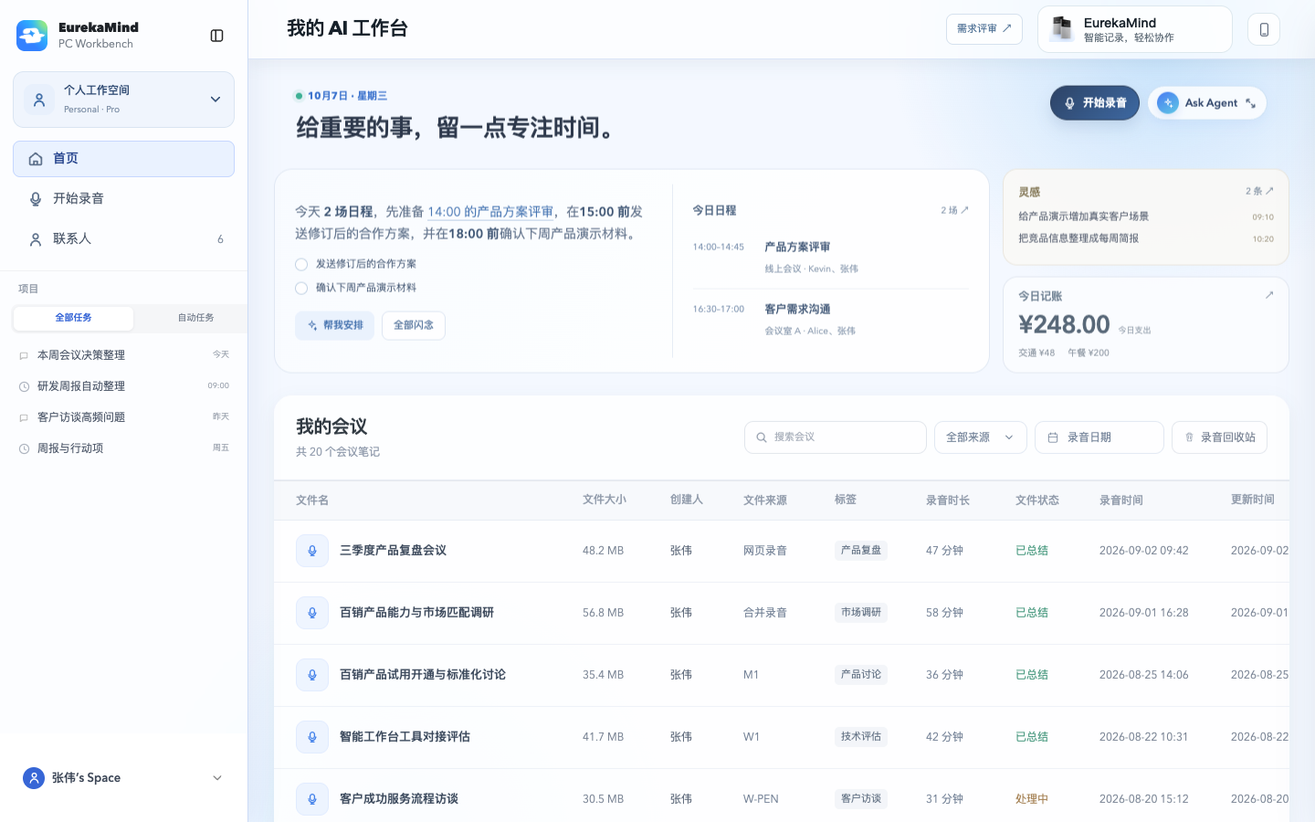
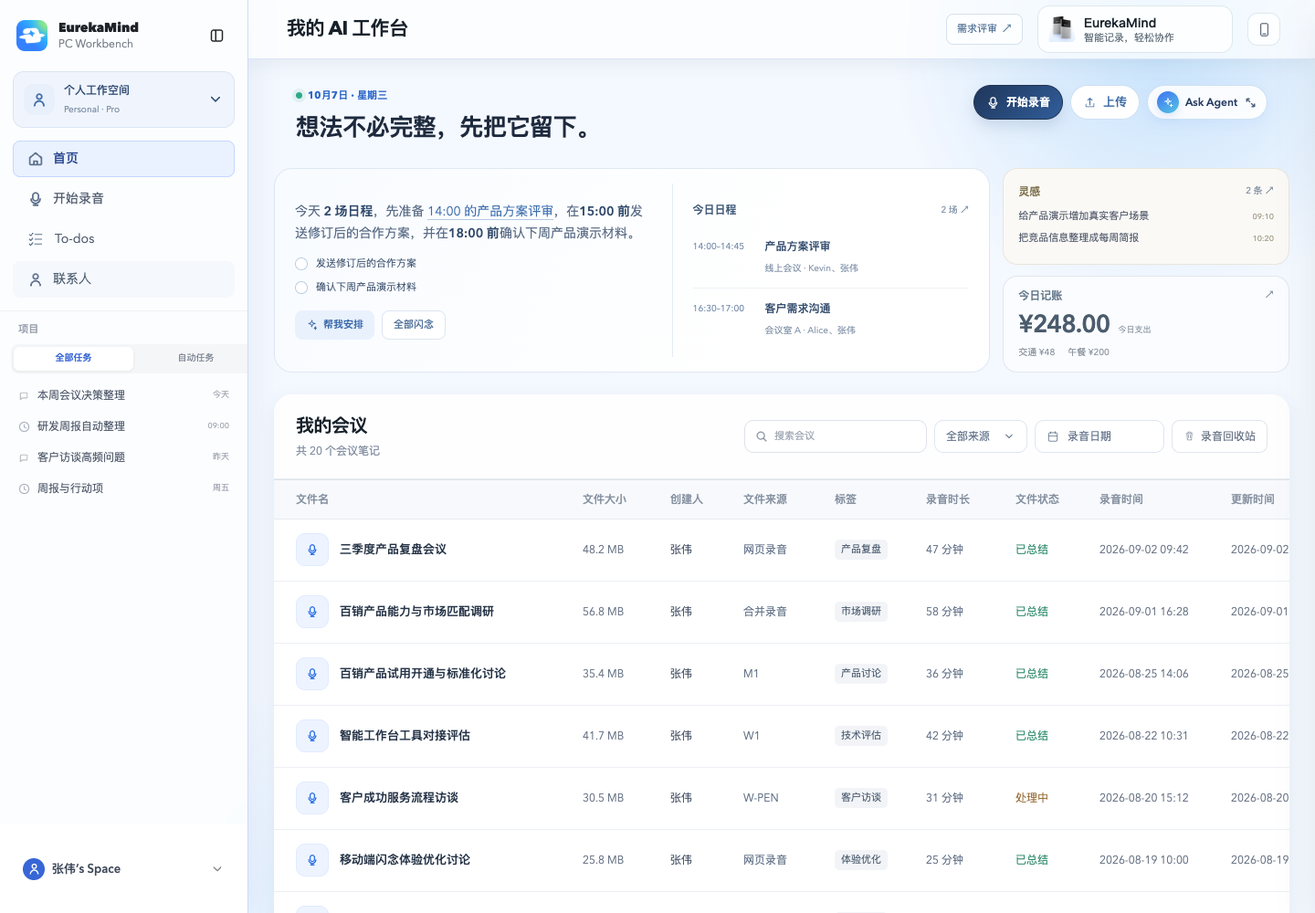
feat: add audio upload to personal and team home pages

diff --git a/src/prototype/one-to-one-reference/assets/workspace-ui.js b/src/prototype/one-to-one-reference/assets/workspace-ui.js
@@ -80,7 +80,7 @@
   function meetingTable(){
     const list=recordingList(),pages=Math.max(1,Math.ceil(list.length/10));listPage=Math.min(listPage,pages);
     const columns=filter==='trash'?['文件名','文件大小','文件来源','录音时间','删除时间','操作']:['文件名','文件大小','创建人','文件来源','标签','录音时长','文件状态','录音时间','更新时间','操作'];
-    return `<div class="ws-table-scroll ws-recording-scroll" role="region" aria-label="团队会议录音列表" tabindex="0"><table class="ws-table ws-recording-table"><thead><tr>${columns.map(t=>`<th>${['录音时间','更新时间'].includes(t)?btn('sort',t+(sortKey===(t==='录音时间'?'created':'updated')?(sortAsc?' ↑':' ↓'):''),'link',t==='录音时间'?'created':'updated'):t}</th>`).join('')}</tr></thead><tbody>${list.slice((listPage-1)*10,listPage*10).map(f=>`<tr><td>${filter==='trash'?esc(f.title):`<button class="ws-file-link" data-ws-action="file" data-value="${esc(f.id)}">${icon('mic')}<strong>${esc(f.title)}</strong></button>`}</td><td>${esc(f.size||'—')}</td>${filter==='trash'?`<td>${esc(f.source)}</td><td>${date(f.created)}</td><td>${date(f.deletedAt)}</td><td><div class="ws-actions">${btn('restore','恢复','link',f.id)}${btn('purge','永久删除','link danger',f.id)}</div></td>`:`<td>${esc(f.creator||userName(f.owner))}</td><td>${esc(f.source)}</td><td>${(f.tags||[]).map(t=>badge(t)).join(' ')}</td><td>${f.duration} 分钟</td><td>${badge(f.status||'已总结','green')}</td><td>${date(f.created)}</td><td>${date(f.updated||f.created)}</td><td><div class="ws-actions">${f.owner===actor?btn('delete','删除','link danger',f.id):badge('只读')}</div></td>`}</tr>`).join('')}</tbody></table></div>${!list.length?empty(filter==='trash'?'回收站暂无内容':'没有符合条件的会议','调整筛选，或开始一场新的录音。'):''}<div class="ws-table-foot ws-pagination"><span>共 ${list.length} 个会议笔记 · ${listPage} / ${pages} 页</span><div class="ws-actions">${btn('list-prev','上一页','','',listPage<=1?'disabled':'')}${btn('list-next','下一页','','',listPage>=pages?'disabled':'')}</div></div>`;
+    return `<div class="ws-table-scroll ws-recording-scroll" role="region" aria-label="团队会议录音列表" tabindex="0"><table class="ws-table ws-recording-table"><thead><tr>${columns.map(t=>`<th>${['录音时间','更新时间'].includes(t)?btn('sort',t+(sortKey===(t==='录音时间'?'created':'updated')?(sortAsc?' ↑':' ↓'):''),'link',t==='录音时间'?'created':'updated'):t}</th>`).join('')}</tr></thead><tbody>${list.slice((listPage-1)*10,listPage*10).map(f=>`<tr><td>${filter==='trash'?esc(f.title):`<button class="ws-file-link" data-ws-action="file" data-value="${esc(f.id)}">${icon('mic')}<strong>${esc(f.title)}</strong></button>`}</td><td>${esc(f.size||'—')}</td>${filter==='trash'?`<td>${esc(f.source)}</td><td>${date(f.created)}</td><td>${date(f.deletedAt)}</td><td><div class="ws-actions">${btn('restore','恢复','link',f.id)}${btn('purge','永久删除','link danger',f.id)}</div></td>`:`<td>${esc(f.creator||userName(f.owner))}</td><td>${esc(f.source)}</td><td>${(f.tags||[]).map(t=>badge(t)).join(' ')}</td><td>${f.origin==='upload'&&!f.duration?'待识别':f.duration+' 分钟'}</td><td>${badge(f.status||'已总结',(!f.status||f.status==='已总结')?'green':'amber')}</td><td>${date(f.created)}</td><td>${date(f.updated||f.created)}</td><td><div class="ws-actions">${f.owner===actor?btn('delete','删除','link danger',f.id):badge('只读')}</div></td>`}</tr>`).join('')}</tbody></table></div>${!list.length?empty(filter==='trash'?'回收站暂无内容':'没有符合条件的会议','调整筛选，或开始一场新的录音。'):''}<div class="ws-table-foot ws-pagination"><span>共 ${list.length} 个会议笔记 · ${listPage} / ${pages} 页</span><div class="ws-actions">${btn('list-prev','上一页','','',listPage<=1?'disabled':'')}${btn('list-next','下一页','','',listPage>=pages?'disabled':'')}</div></div>`;
   }
   function teamIntelligence(report){
     const items=report.items;
@@ -88,9 +88,9 @@
   }
   function overview(){
     const report=M.insights(w(),actor),now=new Date(),dayLabel=now.toLocaleDateString('zh-CN',{month:'long',day:'numeric'})+' · '+now.toLocaleDateString('zh-CN',{weekday:'long'});
-    return `<header class="ws-page-head ws-team-home-head"><div><span class="today-workbench-eyebrow ws-home-date"><i></i><time>${esc(dayLabel)}</time></span><h1>让分散的讨论，成为共同的判断。</h1></div><div class="ws-actions">${btn('record',icon('mic')+'开始录音','primary')+btn('agent',`<span class="ws-agent-mark">${icon('spark')}</span>Ask Agent`,'agent')}</div></header>`+
+    return `<header class="ws-page-head ws-team-home-head"><div><span class="today-workbench-eyebrow ws-home-date"><i></i><time>${esc(dayLabel)}</time></span><h1>让分散的讨论，成为共同的判断。</h1></div><div class="ws-actions">${btn('record',icon('mic')+'开始录音','primary')+'<button type="button" class="audio-upload-entry" data-audio-upload>'+icon('upload')+'上传</button>'+btn('agent',`<span class="ws-agent-mark">${icon('spark')}</span>Ask Agent`,'agent')}</div></header>`+
       (filter!=='trash'?teamIntelligence(report):'')+
-      `<section class="ws-surface ws-recordings"><header class="ws-recording-head"><div><h2>${filter==='trash'?'录音回收站':'团队会议'}</h2><p>${filter==='trash'?'删除的录音可恢复，30 天后过期清理':'团队设备录音自动汇入，无需分享'}</p></div><div class="ws-meeting-tools"><label class="ws-search">${icon('search')}<input id="ws-file-search" type="search" placeholder="搜索会议" aria-label="搜索团队会议" value="${esc(query)}"></label><div class="ws-filter-source"><select id="ws-meeting-source" aria-label="会议来源">${['all','网页录音','合并录音','M1','W1','W2','W-PEN','手动导入',...new Set(w().files.map(f=>f.source))].filter((x,i,a)=>a.indexOf(x)===i).map(v=>`<option value="${esc(v)}" ${sourceFilter===v?'selected':''}>${v==='all'?'全部来源':esc(v)}</option>`).join('')}</select></div><div class="ws-filter-date"><input id="ws-meeting-date" type="date" value="${dateFilter}" aria-label="录音日期"></div><select id="ws-meeting-status" aria-label="会议状态">${['all','已总结','处理中','待处理'].map(v=>`<option ${statusFilter===v?'selected':''} value="${v}">${v==='all'?'全部状态':v}</option>`).join('')}</select>${btn('recycle',filter==='trash'?'返回会议':icon('trash')+'录音回收站')}${filter!=='trash'?btn('import',icon('upload')+'导入录音纪要'):''}</div></header>${meetingTable()}</section>`;
+      `<section class="ws-surface ws-recordings"><header class="ws-recording-head"><div><h2>${filter==='trash'?'录音回收站':'团队会议'}</h2><p>${filter==='trash'?'删除的录音可恢复，30 天后过期清理':'团队设备录音自动汇入，无需分享'}</p></div><div class="ws-meeting-tools"><label class="ws-search">${icon('search')}<input id="ws-file-search" type="search" placeholder="搜索会议" aria-label="搜索团队会议" value="${esc(query)}"></label><div class="ws-filter-source"><select id="ws-meeting-source" aria-label="会议来源">${['all','网页录音','合并录音','M1','W1','W2','W-PEN','文件上传','手动导入',...new Set(w().files.map(f=>f.source))].filter((x,i,a)=>a.indexOf(x)===i).map(v=>`<option value="${esc(v)}" ${sourceFilter===v?'selected':''}>${v==='all'?'全部来源':esc(v)}</option>`).join('')}</select></div><div class="ws-filter-date"><input id="ws-meeting-date" type="date" value="${dateFilter}" aria-label="录音日期"></div><select id="ws-meeting-status" aria-label="会议状态">${['all','已总结','处理中','待处理'].map(v=>`<option ${statusFilter===v?'selected':''} value="${v}">${v==='all'?'全部状态':v}</option>`).join('')}</select>${btn('recycle',filter==='trash'?'返回会议':icon('trash')+'录音回收站')}</div></header>${meetingTable()}</section>`;
   }
   function openMeeting(fid) {
     if(dialog.open)dialog.close();
@@ -291,6 +291,13 @@
   },true);
   dialog.addEventListener('close',()=>dialog.classList.remove('ws-dialog-wide'));
   window.addEventListener('resize',()=>{fit();closeMenu();});new ResizeObserver(fit).observe($('.topbar'));
-  window.EurekaSpaces={id:()=>data.activeId,open:show,switch:switchSpace};
+  window.EurekaSpaces={id:()=>data.activeId,open:show,switch:switchSpace,
+    uploadContext(){M.writable(w());if(!M.member(w(),actor))throw Error('当前成员无法上传');return {id:w().id,type:w().type,name:w().name,actor};},
+    uploadAudio(meta,context){
+      if(context.id!==w().id||context.actor!==actor)throw Error('工作空间已改变，请重新打开上传');
+      const f=mutate(()=>{const f=M.addFile(w(),{title:meta.title,source:'文件上传',summary:meta.note,transcript:meta.note},actor);Object.assign(f,{origin:'upload',fileName:meta.name,size:meta.size,status:'待处理',visibility:'team',recordedWorkspaceId:w().id});if(w().audit[0])w().audit[0].action='上传团队录音：'+f.title;return f;});
+      filter='all';query='';sourceFilter='all';dateFilter='';statusFilter='all';listPage=1;show('overview');return f;
+    }
+  };
   if(!data.spaces.some(s=>s.id===data.activeId&&M.member(s)))data.activeId='personal';chrome();if(w().type==='team')show('overview');
 })();

diff --git a/src/prototype/one-to-one-reference/assets/recording-upload.js b/src/prototype/one-to-one-reference/assets/recording-upload.js
@@ -1,0 +1,66 @@
+/* Shared audio upload interaction. Only demo metadata is persisted; audio never leaves the browser. */
+(() => {
+  'use strict';
+  const $=s=>document.querySelector(s), KEY='eureka:audio-uploads:v1';
+  const formats=['m4a','mp3','wav','opus','flac','aac'];
+  const note='音频已加入会议列表，等待转写处理。本地演示仅保存文件信息，未上传原音频，也未生成真实转写或总结。';
+  const esc=v=>String(v).replace(/[&<>"']/g,c=>({'&':'&amp;','<':'&lt;','>':'&gt;','"':'&quot;',"'":'&#39;'}[c]));
+  let uploads=[],selected=null,context=null,trigger=null,busy=false,loadError=false;
+  try{const value=JSON.parse(localStorage.getItem(KEY)||'[]');if(!Array.isArray(value)||value.some(f=>!f||typeof f.id!=='string'||!f.id.startsWith('upload-')||!['title','name','size','created'].every(k=>typeof f[k]==='string')||!Number.isFinite(Date.parse(f.created))))throw Error();uploads=value;}catch{loadError=true;}
+  const time=iso=>new Date(iso).toLocaleString('sv-SE').slice(0,16);
+  const size=n=>n<1024?n+' B':n<1024*1024?(n/1024).toFixed(1)+' KB':(n/1024/1024).toFixed(1)+' MB';
+  function persist(next){if(loadError)throw Error('上传记录无法读取，请先保留浏览器数据并联系维护者。');localStorage.setItem(KEY,JSON.stringify(next));uploads=next;}
+  function change(id,patch){try{persist(uploads.map(f=>f.id===id?{...f,...patch}:f));return true;}catch{showToast('保存失败，现有录音未改变。请检查浏览器存储空间后重试。');return false;}}
+  function rowFor(f){
+    const row=document.createElement('div');row.className='meeting-row home-meeting-row';row.setAttribute('role','button');row.tabIndex=0;
+    Object.assign(row.dataset,{meetingId:f.id,meeting:f.title,view:'my',source:'文件上传',recordingDate:time(f.created).slice(0,10),meetingCreator:'张伟',meetingDepartment:'',uploadNote:note,meta:time(f.created)+' · 文件上传 · 待处理'});
+    row.innerHTML=`<span class="home-meeting-title"><i><svg class="icon"><use href="#ico-mic"/></svg></i><span><strong>${esc(f.title)}</strong><small>${esc(f.name)}</small></span></span><span class="home-meeting-size">${esc(f.size)}</span><span class="meeting-creator">张伟</span><span>文件上传</span><span class="home-meeting-tag">上传录音</span><span>待识别</span><span class="home-meeting-status"><i></i>待处理</span><span class="home-meeting-time">${time(f.created)}</span><span class="home-meeting-updated">${time(f.created)}</span><span class="meeting-row-actions"><button type="button" data-meeting-action="tag">编辑标签</button><button type="button" class="meeting-delete" data-meeting-action="delete" aria-label="删除会议"><svg class="icon"><use href="#ico-trash"/></svg></button></span>`;
+    row.addEventListener('click',e=>{if(!e.target.closest('[data-meeting-action]'))window.MeetingDetail.open(row.dataset.meeting);});
+    return row;
+  }
+  function restore(){
+    for(const f of [...uploads].reverse()){
+      const row=rowFor(f);
+      assetStore.addMeeting({id:f.id,name:f.title,size:f.size,source:'文件上传',recordingAt:time(f.created),space:'personal',folder:'我的会议'});
+      if(f.deleted){assetStore.deleteMeeting(f.id,f.deletedAt);meetingRowsById.set(f.id,{row,parent:$('#meeting-list'),nextSibling:null});}
+      else $('#meeting-list').prepend(row);
+    }
+    filterMeetings();
+  }
+  const dialog=document.createElement('dialog');dialog.id='audio-upload-dialog';dialog.className='audio-upload-dialog';dialog.setAttribute('aria-labelledby','audio-upload-title');document.body.append(dialog);
+  function choose(file){
+    selected=null;$('#audio-upload-file').textContent='尚未选择文件';$('#audio-upload-error').textContent='';$('#audio-upload-submit').disabled=true;
+    if(!file)return;
+    const ext=file.name.split('.').pop().toLowerCase();
+    if(!formats.includes(ext)){$('#audio-upload-error').textContent='暂不支持此格式，请选择 m4a、mp3、wav、opus、flac 或 aac 音频。';$('#audio-upload-file').textContent='请选择支持的音频文件';return;}
+    if(!file.size){$('#audio-upload-error').textContent='文件为空，请重新选择。';return;}
+    selected=file;$('#audio-upload-file').textContent=file.name+' · '+size(file.size);$('#audio-upload-submit').disabled=false;
+  }
+  function open(button){
+    try{context=window.EurekaSpaces.uploadContext();}catch(e){showToast(e.message);return;}
+    trigger=button;selected=null;busy=false;
+    dialog.innerHTML=`<header><div><h2 id="audio-upload-title">上传录音</h2><p>添加已有音频，继续整理会议内容。</p></div><button type="button" data-upload-close aria-label="关闭上传">×</button></header><div class="audio-upload-body"><div class="audio-upload-target">保存到 <strong>${esc(context.name)}</strong>${context.type==='team'?' · 团队成员可查看':' · 仅自己可见'}</div><button type="button" id="audio-upload-drop"><svg class="icon"><use href="#ico-upload"/></svg><strong>点击选择文件，或拖放到这里</strong><span>m4a、mp3、wav、opus、flac、aac</span></button><input id="audio-upload-input" type="file" accept="${formats.map(f=>'.'+f).join(',')}" hidden><div id="audio-upload-file" aria-live="polite">尚未选择文件</div><p id="audio-upload-error" role="alert"></p><p class="audio-upload-demo">本地演示仅保存文件信息，原音频不会上传。录音进入会议列表后显示为“待处理”。</p></div><footer><button type="button" data-upload-close>取消</button><button type="button" id="audio-upload-submit" disabled>上传</button></footer>`;
+    const input=$('#audio-upload-input'),drop=$('#audio-upload-drop');
+    drop.onclick=()=>{input.value='';input.click();};input.onchange=()=>choose(input.files[0]);
+    drop.ondragover=e=>{e.preventDefault();drop.classList.add('dragging');};drop.ondragleave=()=>drop.classList.remove('dragging');drop.ondrop=e=>{e.preventDefault();drop.classList.remove('dragging');if(e.dataTransfer.files.length!==1){selected=null;$('#audio-upload-submit').disabled=true;$('#audio-upload-error').textContent='每次请选择一个音频文件。';return;}choose(e.dataTransfer.files[0]);};
+    $('#audio-upload-submit').onclick=()=>{
+      if(busy||!selected)return;busy=true;$('#audio-upload-submit').disabled=true;
+      try{
+        const now=window.EurekaSpaces.uploadContext();if(now.id!==context.id||now.actor!==context.actor)throw Error('工作空间已改变，请关闭并重新上传。');
+        const f={id:'upload-'+crypto.randomUUID(),title:selected.name.replace(/\.[^.]+$/,'').slice(0,150)||'上传录音',name:selected.name,size:size(selected.size),created:new Date().toISOString(),note};
+        if(context.type==='team')window.EurekaSpaces.uploadAudio(f,context);
+        else{
+          persist([f,...uploads]);const row=rowFor(f);$('#meeting-list').prepend(row);
+          showMainView('home',{silent:true});$('#meeting-search').value='';$('#meeting-source-filter').value='all';$('#meeting-date-filter').value='';document.dispatchEvent(new Event('meeting-filters-reset'));filterMeetings();
+        }
+        dialog.close();showToast('已添加到当前空间的会议列表，等待转写处理');
+      }catch(e){$('#audio-upload-error').textContent=e.name==='QuotaExceededError'?'浏览器存储空间不足，请清理后重试。':e.message;busy=false;$('#audio-upload-submit').disabled=false;}
+    };
+    dialog.showModal();
+  }
+  dialog.addEventListener('dragover',e=>e.preventDefault());dialog.addEventListener('drop',e=>e.preventDefault());
+  dialog.addEventListener('click',e=>{if(e.target.closest('[data-upload-close]')&&!busy)dialog.close();});dialog.addEventListener('close',()=>{selected=null;context=null;trigger?.focus({preventScroll:true});});
+  document.addEventListener('click',e=>{const button=e.target.closest('[data-audio-upload]');if(button)open(button);});
+  window.RecordingUpload={owns:id=>uploads.some(f=>f.id===id),trash:(id,deleted)=>change(id,{deleted,deletedAt:deleted?new Date().toISOString():null}),purge(id){try{persist(uploads.filter(f=>f.id!==id));return true;}catch{showToast('删除未保存，请重试');return false;}}};
+  const source=$('#meeting-source-filter');source.add(new Option('文件上传','文件上传'));restore();
+})();

diff --git a/src/prototype/one-to-one-reference/team-only-app.html b/src/prototype/one-to-one-reference/team-only-app.html
@@ -2873,7 +2873,7 @@
               <h1 id="today-workbench-title">把今天记下来，让下一步更清楚。</h1>
             </div>
             <div class="today-workbench-head-side">
-              <div class="recording-command-actions"><button class="recording-primary" id="module-start-recording"><svg class="icon"><use href="#ico-mic"/></svg><span><strong>开始录音</strong><small>使用电脑麦克风</small></span></button><button class="xiaozhi-entry" id="xiaozhi-entry" aria-label="问问小智" aria-controls="xiaozhi-rail" aria-expanded="false"><span class="xiaozhi-entry-mark"><svg class="icon"><use href="#ico-spark"/></svg></span><span><strong id="xiaozhi-entry-label">问问小智</strong><small>使用会议与知识</small></span><svg class="icon xiaozhi-expand-icon"><use href="#ico-expand"/></svg></button></div>
+              <div class="recording-command-actions"><button class="recording-primary" id="module-start-recording"><svg class="icon"><use href="#ico-mic"/></svg><span><strong>开始录音</strong><small>使用电脑麦克风</small></span></button><button type="button" class="audio-upload-entry" data-audio-upload><svg class="icon"><use href="#ico-upload"/></svg>上传</button><button class="xiaozhi-entry" id="xiaozhi-entry" aria-label="问问小智" aria-controls="xiaozhi-rail" aria-expanded="false"><span class="xiaozhi-entry-mark"><svg class="icon"><use href="#ico-spark"/></svg></span><span><strong id="xiaozhi-entry-label">问问小智</strong><small>使用会议与知识</small></span><svg class="icon xiaozhi-expand-icon"><use href="#ico-expand"/></svg></button></div>
             </div>
           </header>
           <section class="today-workbench-content" aria-label="今日闪念概览">
@@ -3182,7 +3182,7 @@
   <section class="modal delete-confirm-modal" id="permanent-delete-modal" role="dialog" aria-modal="true" aria-labelledby="permanent-delete-title"><div class="modal-head"><h3 id="permanent-delete-title">确认彻底删除？</h3><button class="close-btn" data-close aria-label="关闭彻底删除确认"><svg class="icon"><use href="#ico-x"/></svg></button></div><div class="modal-body"><p>彻底删除后将无法恢复，请确认是否继续。</p></div><div class="modal-foot"><button class="secondary-btn" data-close>取消</button><button class="danger-btn" id="permanent-delete-submit" type="button">彻底删除</button></div></section>
   <div class="toast" id="toast"></div>
 
-  <script src="assets/recycle-bin-model.js"></script>
+  <script src="assets/recycle-bin-model.js?v=2"></script>
   <script>
     const $ = (selector, root = document) => root.querySelector(selector);
     const $$ = (selector, root = document) => Array.from(root.querySelectorAll(selector));
@@ -3728,6 +3728,8 @@
       if (!action || !row) return;
       const recycleId = row.dataset.recycleId;
       if (action.dataset.recycleAction === "permanent") { pendingPermanentDeleteId = recycleId; openModal("#permanent-delete-modal"); return; }
+      const candidate = assetStore.getRecycleItems({edition:"enterprise",repository:activeRecycleRepository}).find(item=>item.recycleId===recycleId);
+      if (candidate && window.RecordingUpload?.owns(candidate.item.id) && !window.RecordingUpload.trash(candidate.item.id, false)) return;
       const record = assetStore.restore(recycleId);
       if (!record) return;
       if (record.type === "knowledge") {
@@ -3743,7 +3745,7 @@
       showToast(`已恢复到「${record.originalLocation}」`);
     });
     $("#delete-confirm-submit").addEventListener("click", () => { const action = pendingDelete; pendingDelete = null; closeOverlays(); if (action) action(); });
-    $("#permanent-delete-submit").addEventListener("click", () => { const recycleId = pendingPermanentDeleteId; const record = assetStore.getRecycleItems({ edition: "enterprise", repository: activeRecycleRepository }).find((item) => item.recycleId === recycleId); pendingPermanentDeleteId = null; closeOverlays(); if (recycleId && assetStore.permanentlyDelete(recycleId)) { if (record?.type === "meeting") meetingRowsById.delete(record.item.id); renderRecycleBin(); showToast("已彻底删除，无法恢复"); } });
+    $("#permanent-delete-submit").addEventListener("click", () => { const recycleId = pendingPermanentDeleteId; const record = assetStore.getRecycleItems({ edition: "enterprise", repository: activeRecycleRepository }).find((item) => item.recycleId === recycleId); pendingPermanentDeleteId = null; closeOverlays(); if (record && window.RecordingUpload?.owns(record.item.id) && !window.RecordingUpload.purge(record.item.id)) return; if (recycleId && assetStore.permanentlyDelete(recycleId)) { if (record?.type === "meeting") meetingRowsById.delete(record.item.id); renderRecycleBin(); showToast("已彻底删除，无法恢复"); } });
     $$("[data-knowledge-file]").forEach((item) => item.addEventListener("click", () => { $$(".knowledge-file-leaf").forEach((row) => row.classList.toggle("active", row === item)); openKnowledgeFolder("归档"); item.classList.add("active"); const file = knowledgeCatalog.file.find((entry) => entry.folder === activeKnowledgeFolder && entry.name.includes(item.dataset.knowledgeFile.replace(/\.[^.]+$/, ""))) || knowledgeCatalog.file.find((entry) => entry.folder === activeKnowledgeFolder && entry.preview !== "folder"); openKnowledgePreview(file); }));
     document.addEventListener("click", (event) => { if (!event.target.closest("#knowledge-tree-menu") && !event.target.closest("[data-folder-menu]")) closeKnowledgeTreeMenu(); });
     $("#home-entry").addEventListener("click", () => {
@@ -4404,6 +4406,7 @@
       const enterprise = row.dataset.view === "enterprise";
       openDeleteConfirm({ title: "确认删除录音文件？", description: "删除后文件移入回收站，30 天内可恢复，超期永久删除；相关转写和 AI 总结一并移除。", onConfirm: () => {
         const id = row.dataset.meetingId;
+        if (window.RecordingUpload?.owns(id) && !window.RecordingUpload.trash(id, true)) return;
         if (!assetStore.getMeetings().some((item) => item.id === id)) assetStore.addMeeting({ id, name: title, size, source, recordingAt, space: enterprise ? "enterprise" : "personal", folder: enterprise ? "企业会议" : "我的会议" });
         const nextSibling = row.nextElementSibling;
         meetingRowsById.set(id, { row, parent: row.parentElement, nextSibling });
@@ -5308,11 +5311,13 @@
     })();
   </script>
   <script src="assets/workspace-sidebar.js"></script>
-  <script src="assets/meeting-detail.js?v=9"></script>
+  <script src="assets/meeting-detail.js?v=10"></script>
   <script src="assets/meeting-filters.js?v=2"></script>
   <link rel="stylesheet" href="assets/workspace-ui.css?v=10" />
   <script src="assets/workspace-model.js?v=10"></script>
-  <script src="assets/workspace-ui.js?v=10"></script>
+  <script src="assets/workspace-ui.js?v=11"></script>
+<link rel="stylesheet" href="assets/recording-upload.css?v=1">
+<script src="assets/recording-upload.js?v=1"></script>
 <link rel="stylesheet" href="assets/personal-assets.css?v=1">
 <script src="assets/personal-assets-model.js?v=1"></script>
 <script src="assets/personal-assets-ui.js?v=1"></script>

diff --git a/tests/e2e/recording-upload.spec.ts b/tests/e2e/recording-upload.spec.ts
@@ -1,0 +1,40 @@
+import {test,expect,type Page} from '@playwright/test';
+test.use({channel:process.env.PLAYWRIGHT_CHANNEL||undefined,viewport:{width:1440,height:1000}});
+const app='/prototype/one-to-one-reference/team-only-app.html?edition=personal&personal=1';
+const file=(name:string,empty=false)=>({name,mimeType:'audio/wav',buffer:empty?Buffer.alloc(0):Buffer.alloc(256*1024)});
+const team=(page:Page,id='team-eureka')=>page.locator(`#ws-menu [data-ws-action=switch][data-value=${id}]`).click();
+
+test('personal upload validates six formats, persists, opens detail and survives recycle restore',async({page})=>{
+  const errors:string[]=[];page.on('pageerror',e=>errors.push(e.message));await page.goto(app);
+  await page.locator('.recording-command-actions [data-audio-upload]').click();
+  await expect(page.locator('#audio-upload-input')).toHaveAttribute('accept','.m4a,.mp3,.wav,.opus,.flac,.aac');
+  await page.locator('#audio-upload-input').setInputFiles(file('notes.pdf'));await expect(page.locator('#audio-upload-error')).toContainText('暂不支持');await expect(page.locator('#audio-upload-submit')).toBeDisabled();
+  await page.locator('#audio-upload-input').setInputFiles(file('empty.wav',true));await expect(page.locator('#audio-upload-error')).toContainText('文件为空');
+  for(const ext of ['m4a','mp3','wav','opus','flac','AAC']){await page.locator('#audio-upload-input').setInputFiles(file('客户回访.'+ext));await expect(page.locator('#audio-upload-submit')).toBeEnabled();}
+  if(process.env.UPLOAD_CAPTURE)await page.screenshot({animations:'disabled',path:'src/prototype/prd/images/audio-upload.png'});
+  await page.locator('#audio-upload-submit').click();const row=page.locator('#meeting-list [data-source="文件上传"]').filter({hasText:'客户回访'});await expect(row).toHaveCount(1);await expect(row).toContainText('待处理');
+  await page.reload();await expect(row).toHaveCount(1);await row.click();await expect(page.locator('#md-content')).toContainText('未上传原音频');
+  await page.locator('#home-entry').click();await row.locator('[data-meeting-action=delete]').click();await page.locator('#delete-confirm-submit').click();await expect(row).toHaveCount(0);
+  await page.reload();await expect(row).toHaveCount(0);await page.locator('#recording-recycle-entry').click();const recycled=page.locator('[data-recycle-id]').filter({hasText:'客户回访'});await recycled.locator('[data-recycle-action=restore]').click();await page.locator('#home-entry').click();await expect(row).toHaveCount(1);await page.reload();await expect(row).toHaveCount(1);
+  expect(errors).toEqual([]);
+});
+
+test('team upload uses active space, replaces minute import entry, supports drag/drop and cancellation',async({page})=>{
+  await page.goto(app);await page.locator('#ws-switcher').click();await team(page);
+  await expect(page.getByRole('button',{name:'导入录音纪要',exact:true})).toHaveCount(0);
+  const entry=page.locator('.ws-team-home-head [data-audio-upload]');await expect(entry).toBeVisible();
+  if(process.env.UPLOAD_CAPTURE)await page.screenshot({animations:'disabled',path:'src/prototype/prd/images/team.png'});
+  await entry.click();await expect(page.locator('.audio-upload-target')).toContainText('EurekaMind 产品团队');
+  const dt=await page.evaluateHandle(()=>{const dt=new DataTransfer();dt.items.add(new File(['audio'],'团队上传测试.flac',{type:'audio/flac'}));return dt;});await page.locator('#audio-upload-drop').dispatchEvent('drop',{dataTransfer:dt});await expect(page.locator('#audio-upload-submit')).toBeEnabled();await page.locator('#audio-upload-submit').click();
+  const row=page.locator('.ws-recording-table tbody tr').filter({hasText:'团队上传测试'});await expect(row).toHaveCount(1);await expect(row).toContainText('文件上传');await expect(row).toContainText('待处理');await row.locator('[data-ws-action=file]').click();await expect(page.locator('#md-content')).toContainText('未上传原音频');
+  await page.locator('#home-entry').click();await page.reload();await expect(row).toHaveCount(1);
+  await entry.click();await page.locator('#audio-upload-input').setInputFiles(file('不应保存.wav'));await page.keyboard.press('Escape');await expect(page.locator('.ws-recording-table')).not.toContainText('不应保存');
+  await page.locator('#ws-switcher').click();await team(page,'personal');await expect(page.locator('#meeting-list')).not.toContainText('团队上传测试');
+  if(process.env.UPLOAD_CAPTURE){await expect(page.locator('#ws-toast')).toBeHidden();await page.screenshot({animations:'disabled',path:'src/prototype/prd/images/home.png'});}
+});
+
+test('read-only team cannot upload; storage failure retains the selected file',async({page})=>{
+  await page.goto(app);await page.locator('[data-audio-upload]').first().click();await page.locator('#audio-upload-input').setInputFiles(file('失败重试.mp3'));
+  await page.evaluate(()=>{const original=Storage.prototype.setItem;Storage.prototype.setItem=function(k,v){if(k==='eureka:audio-uploads:v1')throw new DOMException('Full','QuotaExceededError');return original.call(this,k,v);};});await page.locator('#audio-upload-submit').click();await expect(page.locator('#audio-upload-error')).toContainText('存储空间不足');await expect(page.locator('#audio-upload-file')).toContainText('失败重试.mp3');await expect(page.locator('#meeting-list')).not.toContainText('失败重试');
+  await page.keyboard.press('Escape');await page.locator('#ws-switcher').click();await team(page);await page.evaluate(()=>{const key='eureka:workspaces:v2';const d=JSON.parse(localStorage.getItem(key)!);d.spaces.find((s:{id:string})=>s.id==='team-eureka').status='expired';localStorage.setItem(key,JSON.stringify(d));});await page.reload();await page.locator('.ws-team-home-head [data-audio-upload]').click();await expect(page.locator('#audio-upload-dialog')).not.toBeVisible();await expect(page.locator('#toast')).toContainText('只读');
+});

diff --git a/tests/e2e/team-workspaces.spec.ts b/tests/e2e/team-workspaces.spec.ts
@@ -46,12 +46,12 @@ test('seats, billing, credits and readonly subscription states are functional',a
   await section(page,'files');await action(page,'record').click();await expect(page.locator('#ws-toast')).toContainText('只读');await expect(page.locator('#ws-dialog')).not.toBeVisible();
   await section(page,'billing');await action(page,'renew').click();await action(page,'confirm').click();await expect(page.locator('.ws-readonly')).toHaveCount(0);
 });
-test('device bindings do not follow workspace switching and exported notes import as private copies',async({page})=>{
+test('device bindings stay fixed, detail export remains and audio upload rejects legacy note JSON',async({page})=>{
   await switchTo(page,'team-eureka');await action(page,'page','devices').click();await action(page,'bind').click();await expect(page.locator('#ws-dialog')).toContainText('个人工作空间');await page.locator('#ws-dialog button[type=submit]').click();
   await action(page,'sync','dev-personal').click();await section(page,'files');await expect(page.locator('#ws-view')).toContainText('我的 Eureka Note · 新录音');
   await action(page,'file','team-review').click();await page.locator('[data-md-action=export]').click();await page.locator('[data-md-action=export-next]').click();await page.locator('[name=md-format][value=json]').check();const downloaded=page.waitForEvent('download');await page.locator('[data-md-action=download]').click();const downloadedFile=await downloaded;const exported=JSON.parse(await readFile((await downloadedFile.path())!,'utf8'));expect(exported.demo).toBe(true);
-  await switchTo(page,'team-design');await section(page,'files');await action(page,'import').click();await page.locator('#ws-dialog input[type=file]').setInputFiles({name:'team-note.json',mimeType:'application/json',buffer:Buffer.from(JSON.stringify(exported))});await page.locator('#ws-dialog button[type=submit]').click();
-  await expect(page.locator('#note-detail-title')).toContainText('团队产品周会');await expect(page.locator('[data-md-action=edit]')).toBeEnabled();
+  await switchTo(page,'team-design');await section(page,'files');await expect(page.locator('[data-ws-action="import"]')).toHaveCount(0);
+  await page.locator('.ws-team-home-head [data-audio-upload]').click();await page.locator('#audio-upload-input').setInputFiles({name:'team-note.json',mimeType:'application/json',buffer:Buffer.from(JSON.stringify(exported))});await expect(page.locator('#audio-upload-error')).toContainText('暂不支持');await expect(page.locator('#audio-upload-submit')).toBeDisabled();await page.keyboard.press('Escape');
   await switchTo(page,'personal');await section(page,'devices');await expect(page.locator('#ws-view')).not.toContainText('我的 Eureka Note');
 });
 test('incoming team invitation joins as member without changing personal plan',async({page})=>{

diff --git a/src/prototype/one-to-one-reference/assets/recording-upload.css b/src/prototype/one-to-one-reference/assets/recording-upload.css
@@ -1,0 +1,2 @@
+.audio-upload-entry{display:inline-flex;align-items:center;justify-content:center;gap:8px;min-height:40px;padding:10px 17px;border:1px solid #cedff3;border-radius:11px;background:#fff;color:#3d6da7;font-family:inherit;font-size:13px;font-weight:600;white-space:nowrap;cursor:pointer}.audio-upload-entry:hover{background:#edf5ff;border-color:#90b7e6}.audio-upload-entry .icon,.audio-upload-entry .ws-icon{width:18px;height:18px}.recording-command-actions{flex-wrap:wrap}.audio-upload-entry:focus-visible,#audio-upload-drop:focus-visible{outline:3px solid #9ecaff;outline-offset:3px}
+.audio-upload-dialog{width:min(560px,calc(100vw - 32px));border:1px solid #dbe6f3;border-radius:20px;padding:0;color:#304d6b;box-shadow:0 25px 100px #28496530;font-family:inherit;max-height:calc(100dvh - 40px);overflow:auto}.audio-upload-dialog::backdrop{background:#1d36594a;backdrop-filter:blur(4px)}.audio-upload-dialog header{display:flex;align-items:flex-start;justify-content:space-between;padding:25px 28px 20px;border-bottom:1px solid #e5edf5}.audio-upload-dialog h2{font-size:22px;margin:0 0 7px}.audio-upload-dialog header p{font-size:13px;color:#8596aa;margin:0}.audio-upload-dialog button{font:inherit;cursor:pointer}.audio-upload-dialog header button{border:0;background:transparent;color:#70859d;font-size:25px;line-height:1}.audio-upload-body{padding:24px 28px}.audio-upload-target{font-size:12px;color:#8396aa;margin-bottom:18px}.audio-upload-target strong{color:#4e7096;margin-left:6px}#audio-upload-drop{width:100%;padding:30px 14px;display:flex;flex-direction:column;align-items:center;gap:13px;border:1px dashed #a7c5e6;border-radius:14px;background:#f7fbff;color:#396fab}#audio-upload-drop .icon{width:30px;height:30px}#audio-upload-drop strong{font-size:15px}#audio-upload-drop span{font-size:13px;color:#8092a7}#audio-upload-drop:hover,#audio-upload-drop.dragging{background:#eaf4ff;border-color:#4f8bdd}#audio-upload-file{margin-top:18px;font-size:13px;overflow-wrap:anywhere}#audio-upload-error{font-size:12px;color:#c34f4f;min-height:16px;margin:12px 0}.audio-upload-demo{font-size:11px;color:#8a9bad;line-height:1.8;margin:0}.audio-upload-dialog footer{border-top:1px solid #e6edf5;display:flex;justify-content:flex-end;gap:10px;padding:18px 28px}.audio-upload-dialog footer button{border:1px solid #dbe5f0;background:#fff;padding:9px 20px;border-radius:9px;color:#5a799d}#audio-upload-submit{color:white;background:#377aca;border-color:#377aca}#audio-upload-submit:disabled{opacity:.4;cursor:not-allowed}@media(max-width:800px){.audio-upload-dialog header,.audio-upload-body{padding:20px}.audio-upload-entry{padding:9px 12px;font-size:12px}.ws-team-home-head .ws-actions{align-self:flex-start}}

diff --git a/src/prototype/one-to-one-reference/assets/meeting-detail.js b/src/prototype/one-to-one-reference/assets/meeting-detail.js
@@ -66,7 +66,7 @@
     if (records.has(id)) return records.get(id);
     const cached = saved[id] && typeof saved[id] === 'object' ? saved[id] : {};
     row.dataset.meeting ||= row.querySelector('.home-meeting-title strong')?.textContent.trim() || '会议录音';
-    const r = { id, row, title:row.dataset.meeting, meta:row.dataset.meta || '', source:row.dataset.source || '网页录音', date:row.dataset.recordingDate || '', status:row.querySelector('.home-meeting-status')?.textContent.trim() || '已总结', summary:defaultSummary(row.dataset.meeting), template:'通用', language:'中文（中国）', detail:'标准', speakers:['张伟','Kevin','Alice'], tags:[], customer:'', project:'', location:'', updated:'', generated:{}, feedback:0, images:[] };
+    const r = { id, row, title:row.dataset.meeting, meta:row.dataset.meta || '', source:row.dataset.source || '网页录音', date:row.dataset.recordingDate || '', status:row.querySelector('.home-meeting-status')?.textContent.trim() || '已总结', summary:row.dataset.uploadNote || defaultSummary(row.dataset.meeting),transcript:row.dataset.uploadNote || undefined, template:'通用', language:'中文（中国）', detail:'标准', speakers:['张伟','Kevin','Alice'], tags:[], customer:'', project:'', location:'', updated:'', generated:{}, feedback:0, images:[] };
     for (const key of ['title','summary','template','language','detail','customer','project','location','updated','verbatim','summaryHtml','verbatimHtml','customerType','projectType']) if (typeof cached[key] === 'string') r[key] = cached[key];
     r.meta = `${row.querySelector('.home-meeting-time')?.textContent.trim() || r.date} · ${[...row.children].find(el => /^\d+ 分钟$/.test(el.textContent.trim()))?.textContent.trim() || ''} · ${r.source}`;
     r.tags = (row.querySelector('.home-meeting-tag')?.textContent.trim() || '').split('、').filter(Boolean);

diff --git a/src/prototype/one-to-one-reference/assets/recycle-bin-model.js b/src/prototype/one-to-one-reference/assets/recycle-bin-model.js
@@ -16,7 +16,7 @@
     };
     let sequence = state.knowledgeRecycle.length + state.recordingRecycle.length;
 
-    const moveToRecycle = (collectionName, id, type) => {
+    const moveToRecycle = (collectionName, id, type, deletedAt) => {
       const collection = state[collectionName];
       const index = collection.findIndex((item) => item.id === id);
       if (index < 0) return null;
@@ -26,7 +26,7 @@
         type,
         space: normalizeSpace(item.space),
         originalLocation: item.folder || (type === "meeting" ? "我的会议" : "我的文件"),
-        deletedAt: new Date().toISOString(),
+        deletedAt: deletedAt && Number.isFinite(Date.parse(deletedAt)) ? deletedAt : new Date().toISOString(),
         expiresInDays: 30,
         item: clone(item),
         name: item.name,
@@ -48,7 +48,7 @@
       addKnowledge(item) { state.knowledge.push(clone(item)); return clone(item); },
       addMeeting(item) { state.meetings.push(clone(item)); return clone(item); },
       deleteKnowledge(id) { return moveToRecycle("knowledge", id, "knowledge"); },
-      deleteMeeting(id) { return moveToRecycle("meetings", id, "meeting"); },
+      deleteMeeting(id, deletedAt) { return moveToRecycle("meetings", id, "meeting", deletedAt); },
       restore(recycleId) {
         const match = findRecycleRecord(recycleId);
         if (!match) return null;
